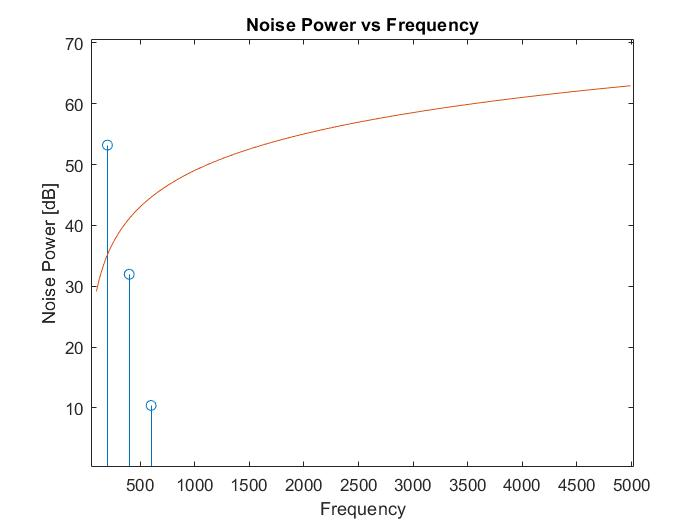
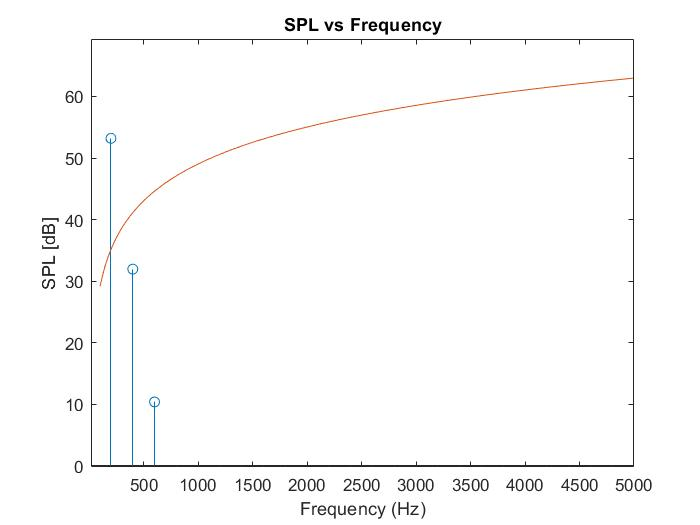
Final

diff --git a/CompletePlot.m b/CompletePlot.m
@@ -76,18 +76,18 @@ figure(1)
 stem(linspace(200,mobj*200,length(P)),20*log10(abs(P2)/2/10^-5))
 hold on
 plot(freqSPL,SPL)
-title('Noise Power vs Frequency')
-xlabel('Frequency')
-ylabel('Noise Power [dB]')
+title('SPL vs Frequency')
+xlabel('Frequency (Hz)')
+ylabel('SPL [dB]')
 
 
 figure(2)
 stem(linspace(200,mobj*200,length(P)),20*log10(abs(P)/2/10^-5))
 hold on
 plot(freqSPL,SPL)
-title('Noise Power vs Frequency')
-xlabel('Frequency')
-ylabel('Noise Power [dB]')
+title('SPL vs Frequency')
+xlabel('Frequency (Hz)')
+ylabel('SPL [dB]')
 
 
 

diff --git a/Parameters.m b/Parameters.m
@@ -5,7 +5,7 @@
 %all mass in [kg]
 function p = Parameters()
 
-fid = fopen('Data2.txt', 'rt');
+fid = fopen('Data1.txt', 'rt');
 data_cell = textscan(fid, '%f%f%f%f%f%f%f%f%f%f%f%f%f%f%f%f%f%f', 'Delimiter',' ');
 fclose(fid);
 
@@ -28,7 +28,7 @@ p.k = [0,0,1];
 
 
 %% INPUT PARAMETERS
-p.V= 25;
+p.V= 18;
 p.cpcv=1.4;
 p.Rgas=287;
 p.press=101325;
@@ -40,7 +40,7 @@ p.dynvis=0.000018;
 p.kinvis=p.dynvis/p.density;
 p.diam=0.3556;
 p.R1=p.diam*0.5;
-p.omega= (pi*8000)/30;
+p.omega= (pi*6000)/30;
 p.B=2;
 p.sections=30;
 
